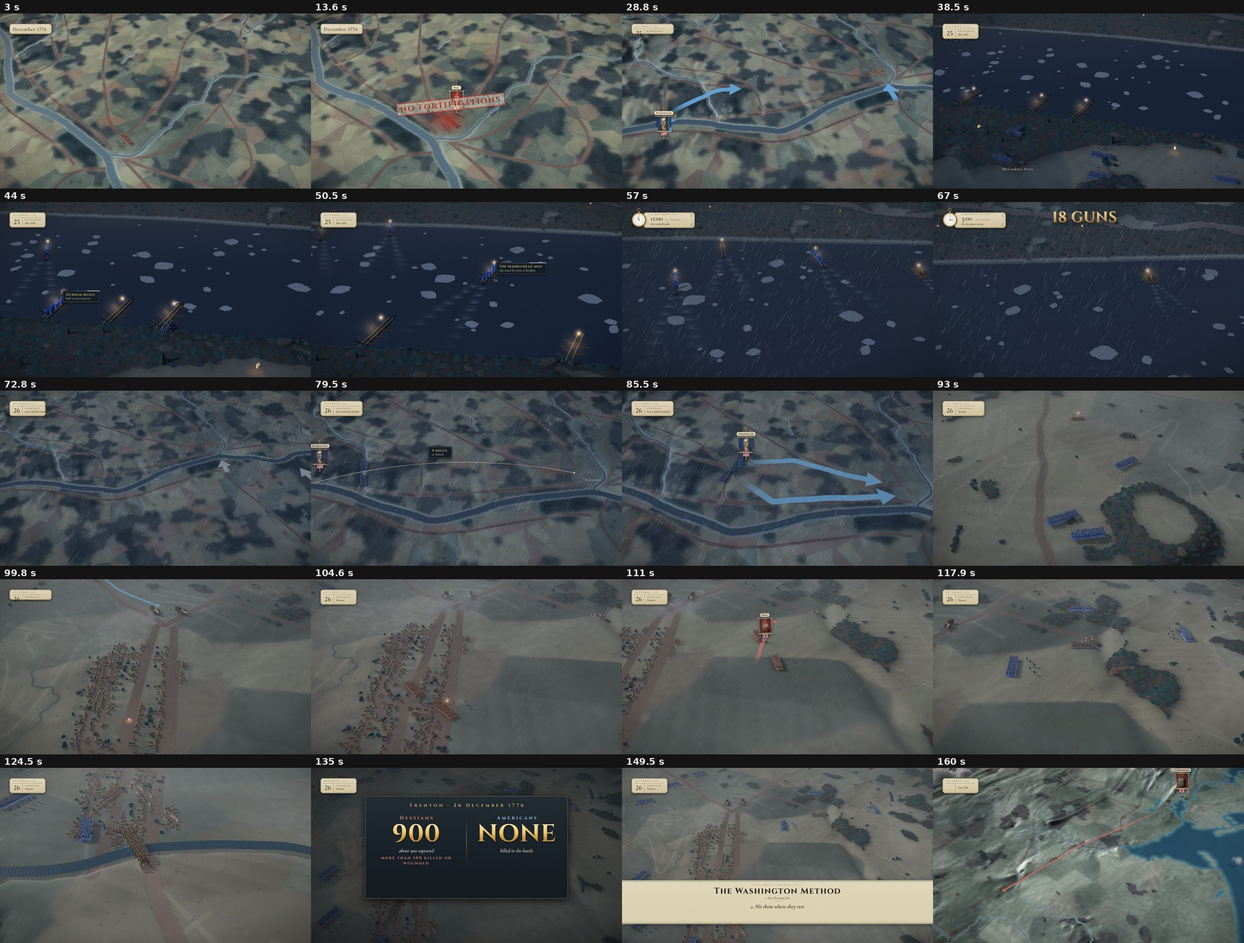
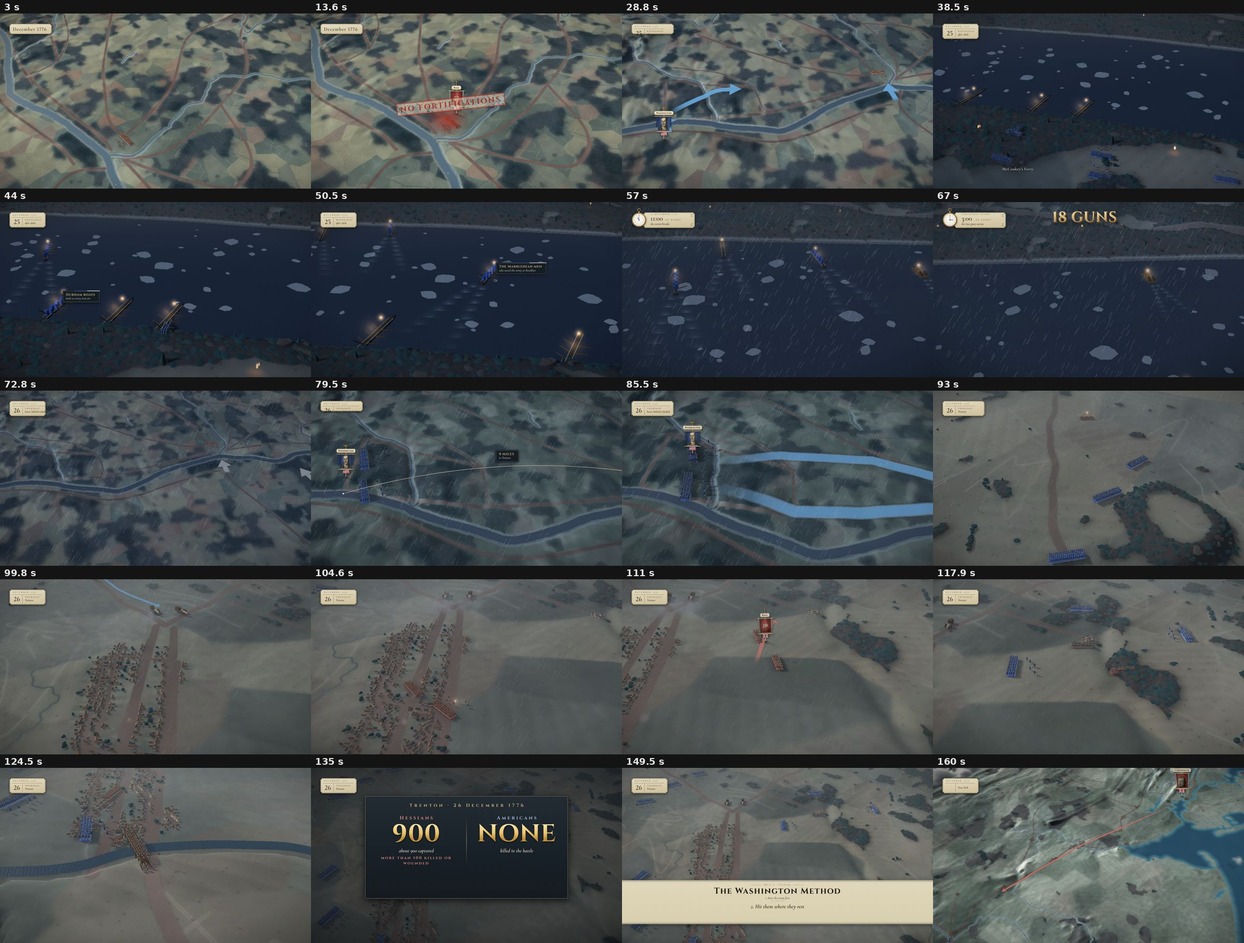
Washington: round-2 fixes S05 S07 (author C)
Claude-Session: https://claude.ai/code/session_011uJnjBmWWPVu63DLzFZfyj

Changed region(s): [[0.25, 0.4, 0.8125, 0.6154], [0.8438, 0.4615, 1.0, 0.6154], [0.0, 0.6154, 0.0625, 0.6462]]

diff --git a/washington/sequences/S03/seq.js b/washington/sequences/S03/seq.js
@@ -55,11 +55,12 @@ const units = [];
 const U = (o) => { units.push({ type: "inf", n: 2, region: BK, arrive: false, ...o }); return units.length - 1; };
 // the army packed inside the lines (blocks between the works and the ferry), each regiment leaves on its own, nearest the ferry first
 const CAMP = [   // [position, pier, escape t0]
-  [[2483.6, 1151.6], PA, 53.0], [[2479.0, 1152.4], PB, 54.2], [[2487.6, 1152.6], PA, 57.4], [[2481.4, 1156.0], PB, 58.6],
-  [[2485.4, 1156.4], PA, 61.0], [[2477.6, 1158.6], PB, 62.6], [[2489.6, 1156.6], PA, 64.6], [[2483.6, 1160.4], PB, 67.4],
-  [[2488.0, 1160.6], PA, 70.4], [[2492.6, 1159.8], PA, 73.6],
+  [[2485.0, 1151.4], PA, 59.4], [[2479.0, 1152.4], PB, 60.6], [[2487.6, 1152.6], PA, 63.8], [[2481.4, 1156.0], PB, 65.0],
+  [[2485.4, 1156.4], PA, 67.4], [[2477.6, 1158.6], PB, 69.0], [[2489.6, 1156.6], PA, 71.0], [[2483.6, 1160.4], PB, 73.8],
+  [[2488.0, 1160.6], PA, 76.8], [[2492.6, 1159.8], PA, 80.0],
 ];
-CAMP.forEach(([p, P, t0]) => U({ side: "u", face: FSE, keys: [[0, ...p]], escape: ESC(P, t0) }));
+// round 2 (critic A): each regiment already faces its landing (formed to march), so it walks straight there front first (no crab)
+CAMP.forEach(([p, P, t0]) => U({ side: "u", face: Math.atan2(P.near[1] - p[1], P.near[0] - p[0]), keys: [[0, ...p]], escape: ESC(P, t0) }));
 // Glover's Marblehead regiment: at the landing on "regiment", first into the boats (they row them)
 U({ side: "u", n: 1, face: -Math.PI / 2, t0: T.regiment - 0.2, keys: [[0, 2481.6, 1149.3]], escape: ESC(PA, 53.6) });
 // the covering force (Mifflin): stays in the front line; ordered out by mistake (~2 a.m.), stops when met on the road, faces about, back in
@@ -211,7 +212,7 @@ function buildResult(c) { const st = document.createElement("style"); st.textCon
     <div class="src">Johnston, The Campaign of 1776 around New York and Brooklyn</div>`;
   host.appendChild(el); const tl = c.tl, gs = window.gsap, on = (sel, t) => { const e = el.querySelector(sel); gs.set(e, { autoAlpha: 0 }); tl.fromTo(e, { autoAlpha: 0, y: 12 }, { autoAlpha: 1, y: 0, duration: 0.4, ease: "power2.out", immediateRender: false }, t); };
   gs.set(el, { autoAlpha: 0 }); tl.fromTo(el, { autoAlpha: 0, scale: 0.97 }, { autoAlpha: 1, scale: 1, duration: 0.4, ease: "power2.out", immediateRender: false }, T.about - 0.3); tl.to(el, { autoAlpha: 0, duration: 0.45 }, 131.0);
-  on(".c1 .sd", T.about - 0.1); on(".c1 .nb", T.ninek); on(".c1 .gn", T.guns - 0.9); on(".c1 .nt", T.crossed2 - 0.1); on(".vr", T.only - 0.3); on(".c2 .nb", T.handful);
+  on(".c1 .sd", T.about - 0.1); on(".c1 .nb", T.ninek); on(".c1 .gn", T.guns - 0.9); on(".c1 .nt", T.crossed2 - 0.1); on(".vr", T.handful - 0.1); on(".c2 .nb", T.handful);
   on(".c2 .nt", T.stragglers - 0.1); on(".c2 .sd", T.behind - 0.25); on(".src", T.behind + 0.2); }
 
 const DS = 4.0, NI = 0.7, NG = 0.45;   // round 1 (critic A): night +15 % lighter than 0.85
@@ -251,7 +252,8 @@ window.SEQ = {
     { t: T.D, region: CO, at: [610.0, 264.0], dist: 285, tilt: 35, yaw: 0, fov: 30, ease: "lin" },
   ],
   dives: [{ t: DS, over: OV, overTo: OVB, from: { region: CO, at: [OV[0] - 3, OV[1] + 8], dist: 230, tilt: 38, yaw: 0 },
-            to: { region: BK, at: [2493.0, 1161.0], dist: 74, tilt: 40, yaw: 0, fov: 30 } }],
+            to: { region: BK, at: [2493.0, 1161.0], dist: 74, tilt: 40, yaw: 0, fov: 30 },
+            whooshAt: 1.4, off: { warm: 0.05, emerge: 0.1, clear: 0.28, haze: 0.85 } }],   // round 2: whoosh before "General William Howe"; no flat cream hold (S05 values)
   clouds: { [CO]: { scatter: { seed: 5 } }, [BK]: { shadows: true } },
   units, arrows, boats, fx, generals, banners, labels,
   overlay: [
@@ -264,7 +266,7 @@ window.SEQ = {
     ["plaque.note", T.dark - 0.1, "after dark · rain"],
     ["plaque.note", T.changed - 0.05, "the wind changes"],
     ["plaque.note", T.middle - 0.1, "the middle of the night"],
-    ["plaque.date", T.firstlight - 0.05, { month: "August 1776", day: "", weekday: "", note: "first light" }],   // round 1: no unspoken day
+    ["plaque.date", T.firstlight - 0.05, { month: "August 1776", day: "", weekday: "", note: "" }],   // round 1: no unspoken day
     ["plaque.note", T.fog - 0.05, "fog"],
     ["film.dim", T.about - 0.3, 131.3, 0.75],
     ["letter", T.method - 0.15, T.beginning - 0.1, { header: "Move 1 · Brooklyn", title: "The Washington Method", sub: "", marks: false, quote: "1. Save the army first", qSize: 34, cps: 30, qAt: T.save - 0.05, lag: 0.05, stagger: 0.06, partDur: 0.35 }],

diff --git a/washington/sequences/S04/seq.js b/washington/sequences/S04/seq.js
@@ -57,7 +57,7 @@ const FADE = [null, 62.6, null, 56.2, null, 58.4, 60.9, null];
 CAMPK.forEach(([k, d, t0], i) => { const p = bank(k, "PA", HW + d), inl = bank(k, "PA", HW + d + 1.6), f = Math.atan2(RV(k).dx, -RV(k).dy);
   U({ side: "u", region: JE, face: f, t0: t0 || 23.0, t1: FADE[i] || 1e9, keys: t0 ? [[0, ...p], [t0, ...p], [t0 + 3.4, ...inl]] : [[0, ...inl]] }); });
 // the British winter posts: three Hessian regiments into Trenton (Rall, Lossberg, Knyphausen), Bordentown, Princeton
-const HESS = [[TRj[0] - 3.2, TRj[1] - 5.2], [TRj[0] + 3.6, TRj[1] - 5.0], [TRj[0] + 0.6, TRj[1] - 9.6]];
+const HESS = [[TRj[0] - 4.4, TRj[1] - 5.2], [TRj[0] + 4.8, TRj[1] - 5.0], [TRj[0] + 0.6, TRj[1] - 11.4]];
 const PN = (p, dx, dy) => [p[0] + dx, p[1] + dy];
 HESS.forEach((p, i) => U({ side: "r", region: JE, face: Math.PI * 0.75, t0: T.settled - 0.6 + i * 0.4, keys: [[0, p[0] + 7, p[1] - 9], [T.settled - 0.4 + i * 0.4, p[0] + 7, p[1] - 9], [T.posts + 3.6 + i * 0.4, ...p]] }));
 U({ side: "r", region: JE, face: 2.24, t0: T.settled - 0.2, keys: [[0, ...PN(BOR, 2, -3)]] });   // round 1: settles in place (no oblique walk)
@@ -74,11 +74,11 @@ LAND.forEach((k, i) => { const a = bank(k, "NJ", HW - 0.9), b = bank(k, "PA", HW
 
 // ---------------- arrows ----------------
 const arrows = [
-  { side: "r", region: CO, width: 0.85, maxWidth: 0.85, pts: [[HARLEM[0] - 2, HARLEM[1] + 24], [HARLEM[0] + 8, HARLEM[1] - 20], [WP[0] - 16, WP[1] + 30]], t0: T.drove, dur: 2.2, t1: 9.6 },
+  { side: "r", region: CO, width: 0.85, maxWidth: 0.85, pts: [[HARLEM[0] - 8, HARLEM[1] + 24], [HARLEM[0] - 4, HARLEM[1] - 26], [WP[0] - 22, WP[1] + 30]], t0: T.drove, dur: 2.2, t1: 9.6 },
   ...[[[FW[0] + 6, FW[1] - 22], FW], [[FW[0] + 22, FW[1] + 4], FW], [[FW[0] - 3, FW[1] + 26], FW]].map(([a, b], i) =>
     ({ side: "r", region: CO, width: 0.7, maxWidth: 0.7, pts: [a, [(a[0] + b[0]) / 2, (a[1] + b[1]) / 2], [b[0] + (a[0] - b[0]) * 0.12, b[1] + (a[1] - b[1]) * 0.12]], t0: T.stormed - 0.1 + i * 0.25, dur: 1.2, t1: 16.4 })),
   // the retreat across New Jersey, the British close behind
-  { side: "u", region: CO, width: 0.95, maxWidth: 0.95, pts: [[FL[0] - 4, FL[1] + 6], [560, 300], [NB[0] + 4, NB[1] - 4], [TRc[0] + 40, TRc[1] - 40], [TRc[0] + 8, TRc[1] - 6]], t0: T.across - 0.2, dur: 2.8, t1: T.D },
+  { side: "u", region: CO, width: 0.95, maxWidth: 0.95, pts: [[FL[0] - 4, FL[1] + 6], [560, 300], [NB[0] + 4, NB[1] - 4], [TRc[0] + 40, TRc[1] - 40], [TRc[0] + 17, TRc[1] - 16]], t0: T.across - 0.2, dur: 2.8, t1: T.D },
   { side: "r", region: CO, width: 0.8, maxWidth: 0.8, pts: [[FL[0] - 10, FL[1] + 26], [575, 318], [NB[0] + 14, NB[1] - 2]], t0: T.chased + 0.1, dur: 2.4, t1: T.D },
 ];
 
@@ -111,7 +111,7 @@ window.SEQ = {
   name: "S04", D: T.D, T, seed: 1776, date: "1776-11-16",
   regions: [CO, JE],
   troops: "blocks", troopsOpts: { look: "lineblocks" },
-  regionOpts: { [CO]: { troopScale: 16 }, [JE]: { troopScale: 5.2, decks } },
+  regionOpts: { [CO]: { troopScale: 16 }, [JE]: { troopScale: 7, decks } },
   features: { [JE]: { bridges: [0, 1, 2, 3, 4, 5, 6].map(() => ({ hidden: true })), houseK: 0.35 } },   // creek bridges hidden; smaller houses (long houses on crossed streets read as crosses from far away)
   keys: [
     { t: 0, region: CO, at: [610.0, 264.0], dist: 285, tilt: 35, yaw: 0, fov: 30 },                    // = S03's last camera
@@ -140,6 +140,7 @@ window.SEQ = {
     ["label", T.prisoner - 0.05, T.then + 0.2, { name: "Nearly 3,000 prisoners", sub: "", world: [FW[0] + 10, FW[1] + 30], side: "us", marker: false }],
     ["plaque.date", T.eighth - 0.05, { month: "December 1776", day: "8", weekday: "Sunday", note: "into Pennsylvania" }],
     ["plaque.note", T.congress - 0.05, "Congress flees Philadelphia"],
+    ["plaque.date", T.settled - 0.1, { month: "December 1776", day: "", weekday: "", note: "" }],   // round 2: no "8 December" over the winter posts
     ["label", T.hessian - 0.05, T.ralls - 0.3, { name: "Hessians", sub: "three regiments", world: [TRj[0] + 0.6, TRj[1] - 14.0], side: "uk", marker: false }],
     ["label", T.fourteen - 0.05, T.colonel - 0.3, { name: "About 1,400 men", sub: "", world: [TRj[0] + 0.6, TRj[1] - 14.0], side: "uk", marker: false }],
     ["label", T.thirtyfirst - 0.05, T.D, { name: "Enlistments end", sub: "31 December", world: bank(kT - 0.15, "PA", HW + 12.0), side: "us", marker: false }],

diff --git a/washington/sequences/S06/seq.js b/washington/sequences/S06/seq.js
@@ -48,7 +48,7 @@ LAND.forEach((k, i) => { const r = RV(k), near = bank(k, "PA", HW + 0.55), far =
   U({ side: "u", region: JE, face: toNJ, keys: [[0, ...bank(k, "PA", HW + 3.8 + (i % 2) * 1.0)]], escape: { road: [back, near, far, out], join: "nearest", fade: null, vanish: [0.1, 0.7], front: true, t0: 0.2 + i * 0.7 } });
   U({ side: "u", region: JE, face: Math.atan2(-RV(k).dx, RV(k).dy) + Math.PI, t0: 4.6 + i * 0.7, keys: [[0, ...bank(k, "NJ", HW + 1.4)], [4.8 + i * 0.7, ...bank(k, "NJ", HW + 1.4)], [8.6 + i * 0.7, ...bank(k, "NJ", HW + 4.6)]] }); });
 // 2 January: Cornwallis's column down the post road (head at s 62 -> halts in front of each rifle group -> s 40)
-const RED = [0, 1, 2, 3].map((i) => U({ side: "r", region: JE, n: 2, face: FRD(40) + Math.PI, t0: 11.8,
+const RED = [0, 1, 2, 3].map((i) => U({ side: "r", region: JE, n: 2, face: FRD(46 + i * 5.4) + Math.PI, t0: 11.8,
   keys: [[0, ...RD(64 + i * 5.4)], [13.4, ...RD(64 + i * 5.4)], [17.6, ...RD(52 + i * 5.4), "lin"], [25.4, ...RD(52 + i * 5.4)], [29.6, ...RD(41 + i * 5.4), "lin"]] }));
 // Hand's riflemen: G1 at Five Mile Run fires, about-faces (~7 s in place) and falls back; G2 at the Shabakunk fires twice
 const G1a = RD(44, 1.0), G1b = RD(33, 3.0), G2 = RD(29, -2.4);
@@ -62,7 +62,7 @@ GUNS.forEach((g) => U({ side: "u", region: TR, type: "art", face: N_, t0: 32.0, 
 // three assaults: each regiment walks down to the creek by the bridge, is thrown back (holds while it about-faces ~7 s), walks back
 // round 1 (critic B): one short fire wave per attack in the word gaps (43.0-43.4, 45.6-46.5, 49.4-50.3), nothing after 50.3
 const AS = [[1356.15, 2068.75, 37.6], [1354.4, 2067.6, 40.2], [1358.0, 2067.6, 44.0]];   // [x, y, start]; arrive start + 5
-const WAVE = [[43.0, 43.4], [45.6, 46.5], [49.4, 50.3]];
+const WAVE = [[43.0, 43.4], [46.1, 46.6], [49.85, 50.4]];   // round 2: after the word ends
 AS.forEach(([x, y, ta], i) => { const st = [x, 2061.6 - i * 0.6];
   U({ side: "r", region: TR, face: S_, t0: 32.6, keys: [[0, ...st], [ta, ...st], [ta + 5.0, x, y], [ta + 14.4, x, y], [ta + 18.2, st[0], st[1] - 0.6]] }); });
 // the rest of the red army in the town (comes in at dusk, camps for the night)
@@ -139,7 +139,7 @@ window.SEQ = {
   name: "S06", D: T.D, T, seed: 1777, date: "1777-01-02",
   regions: [JE, TR],
   troops: "blocks", troopsOpts: { look: "lineblocks" },
-  regionOpts: { [JE]: { troopScale: 5.2, decks }, [TR]: { troopScale: 1.6 } },
+  regionOpts: { [JE]: { troopScale: 7, decks }, [TR]: { troopScale: 1.6 } },
   features: { [JE]: { bridges: [0, 1, 2, 3, 4, 5, 6].map(() => ({ hidden: true })), houseK: 0.35 } },
   keys: [
     { t: 0, region: JE, at: [654.0, 1024.0], dist: 88, tilt: 44, yaw: 0, fov: 30 },                       // back over the river to Trenton
